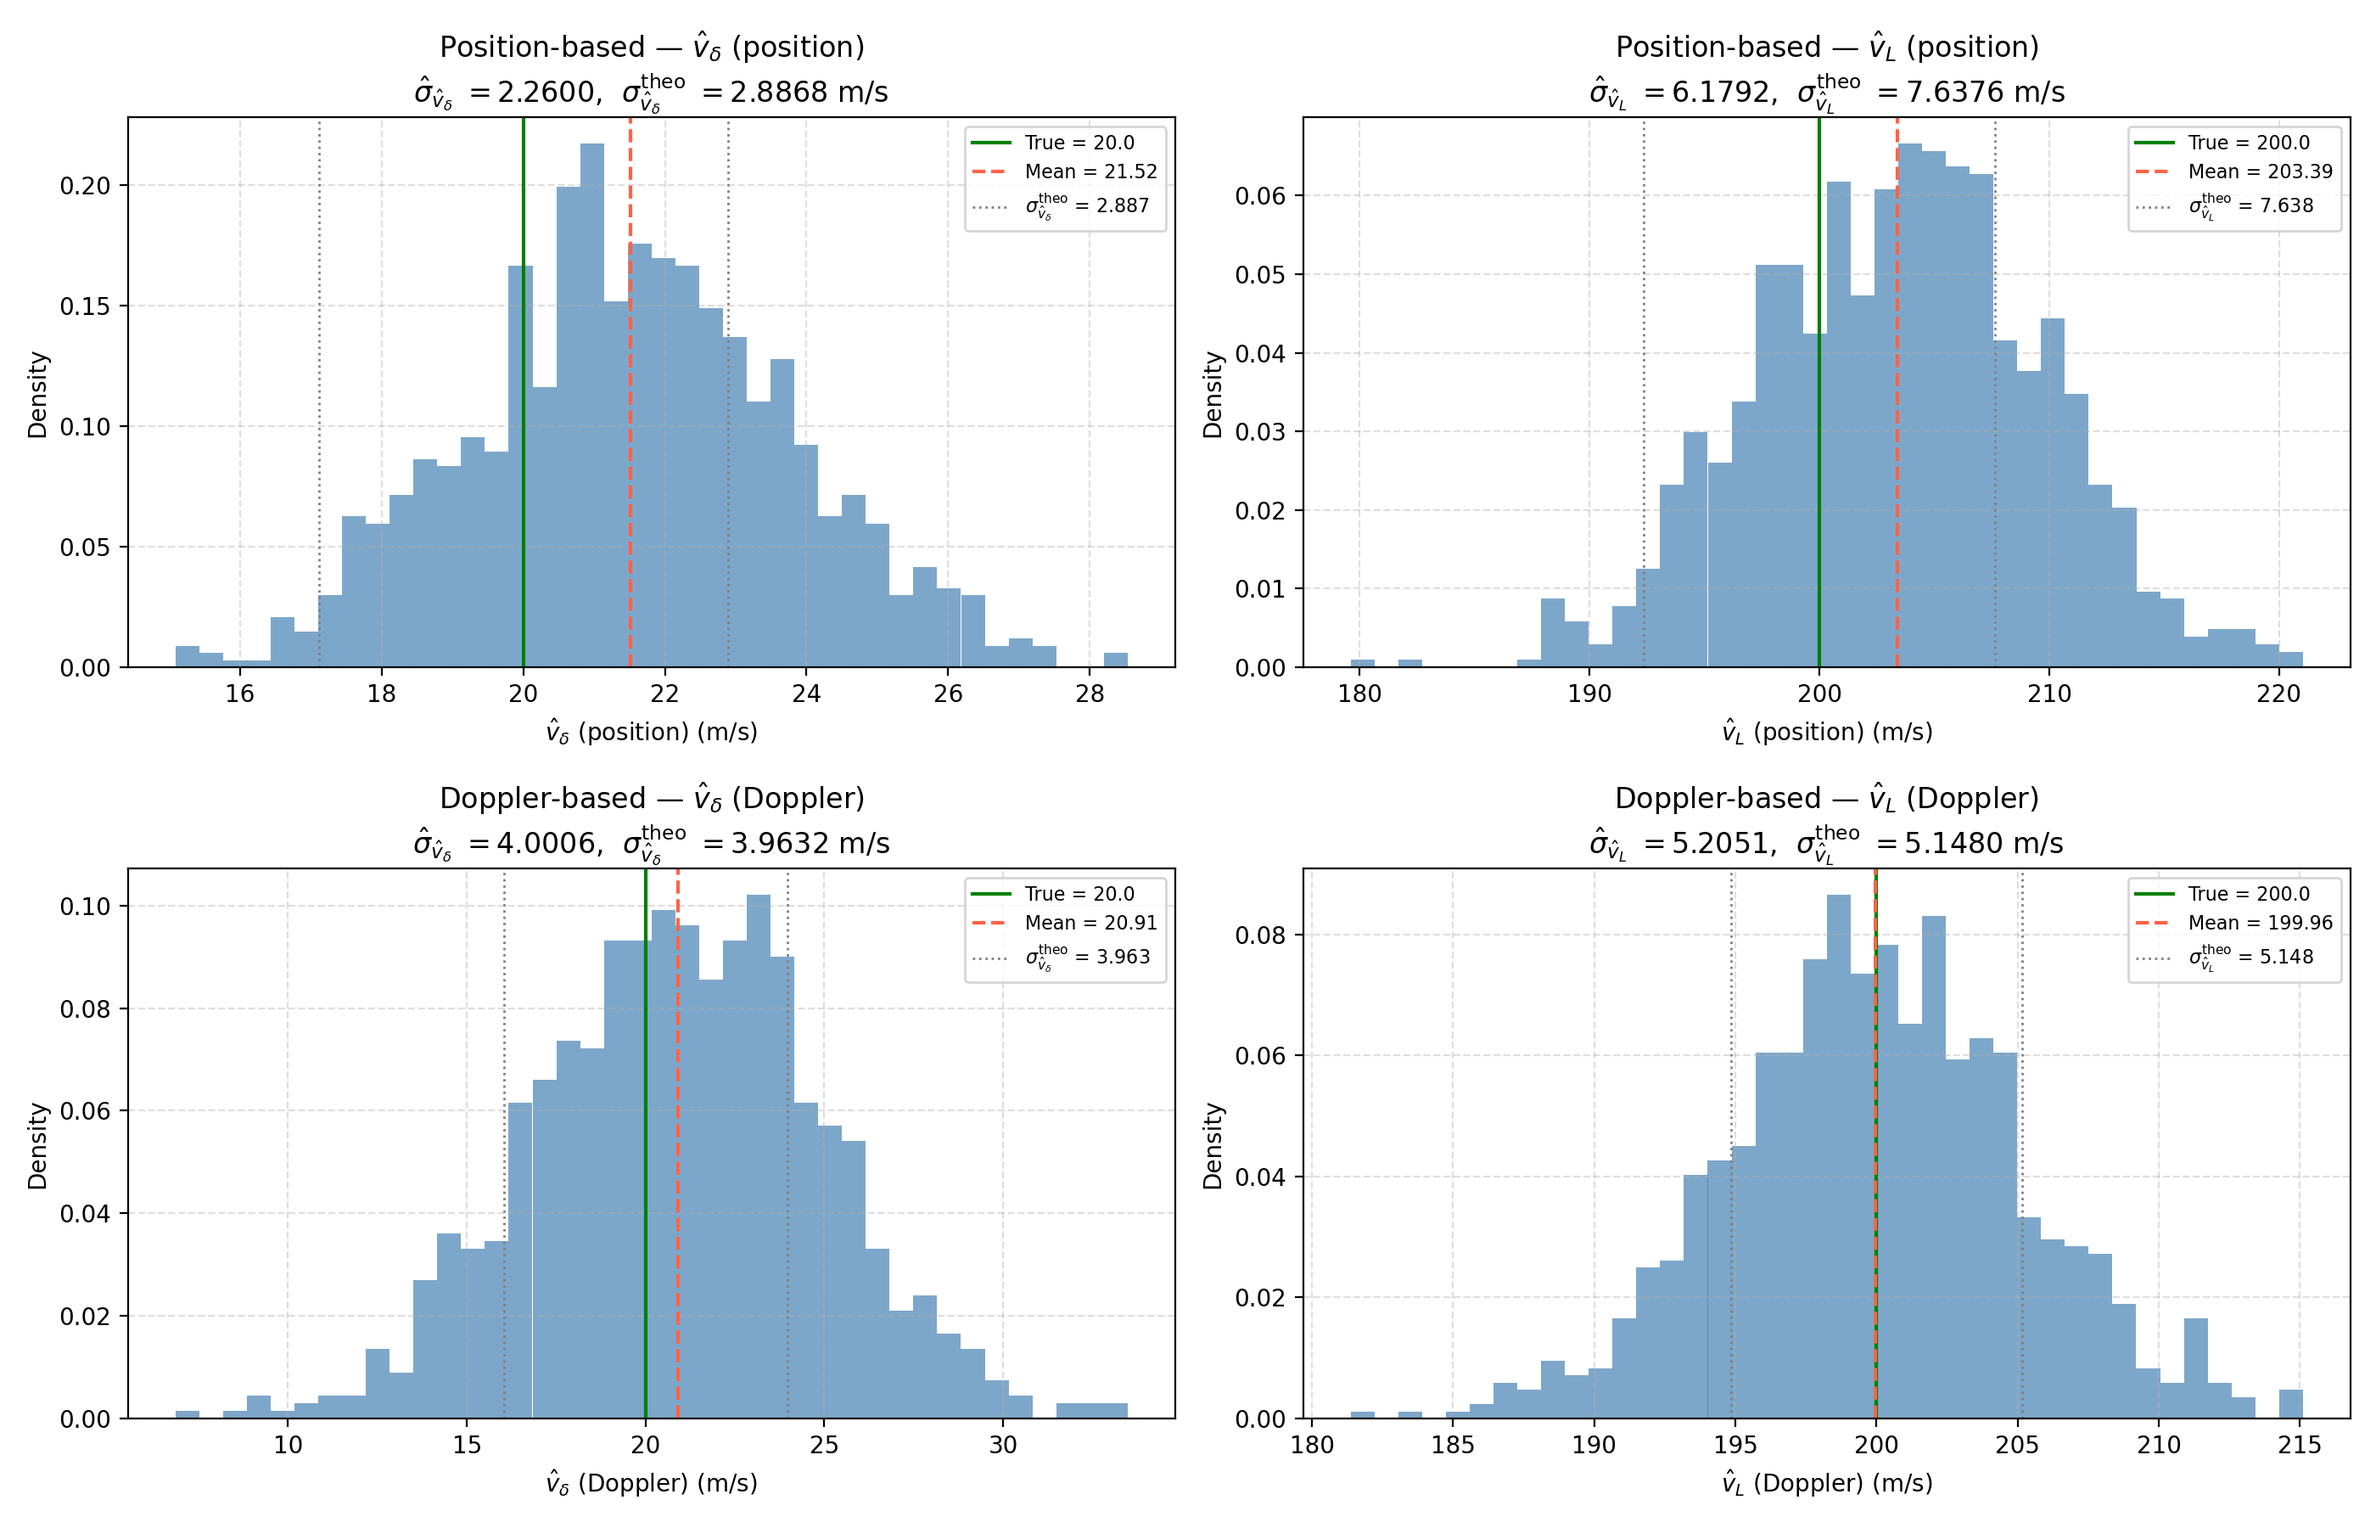
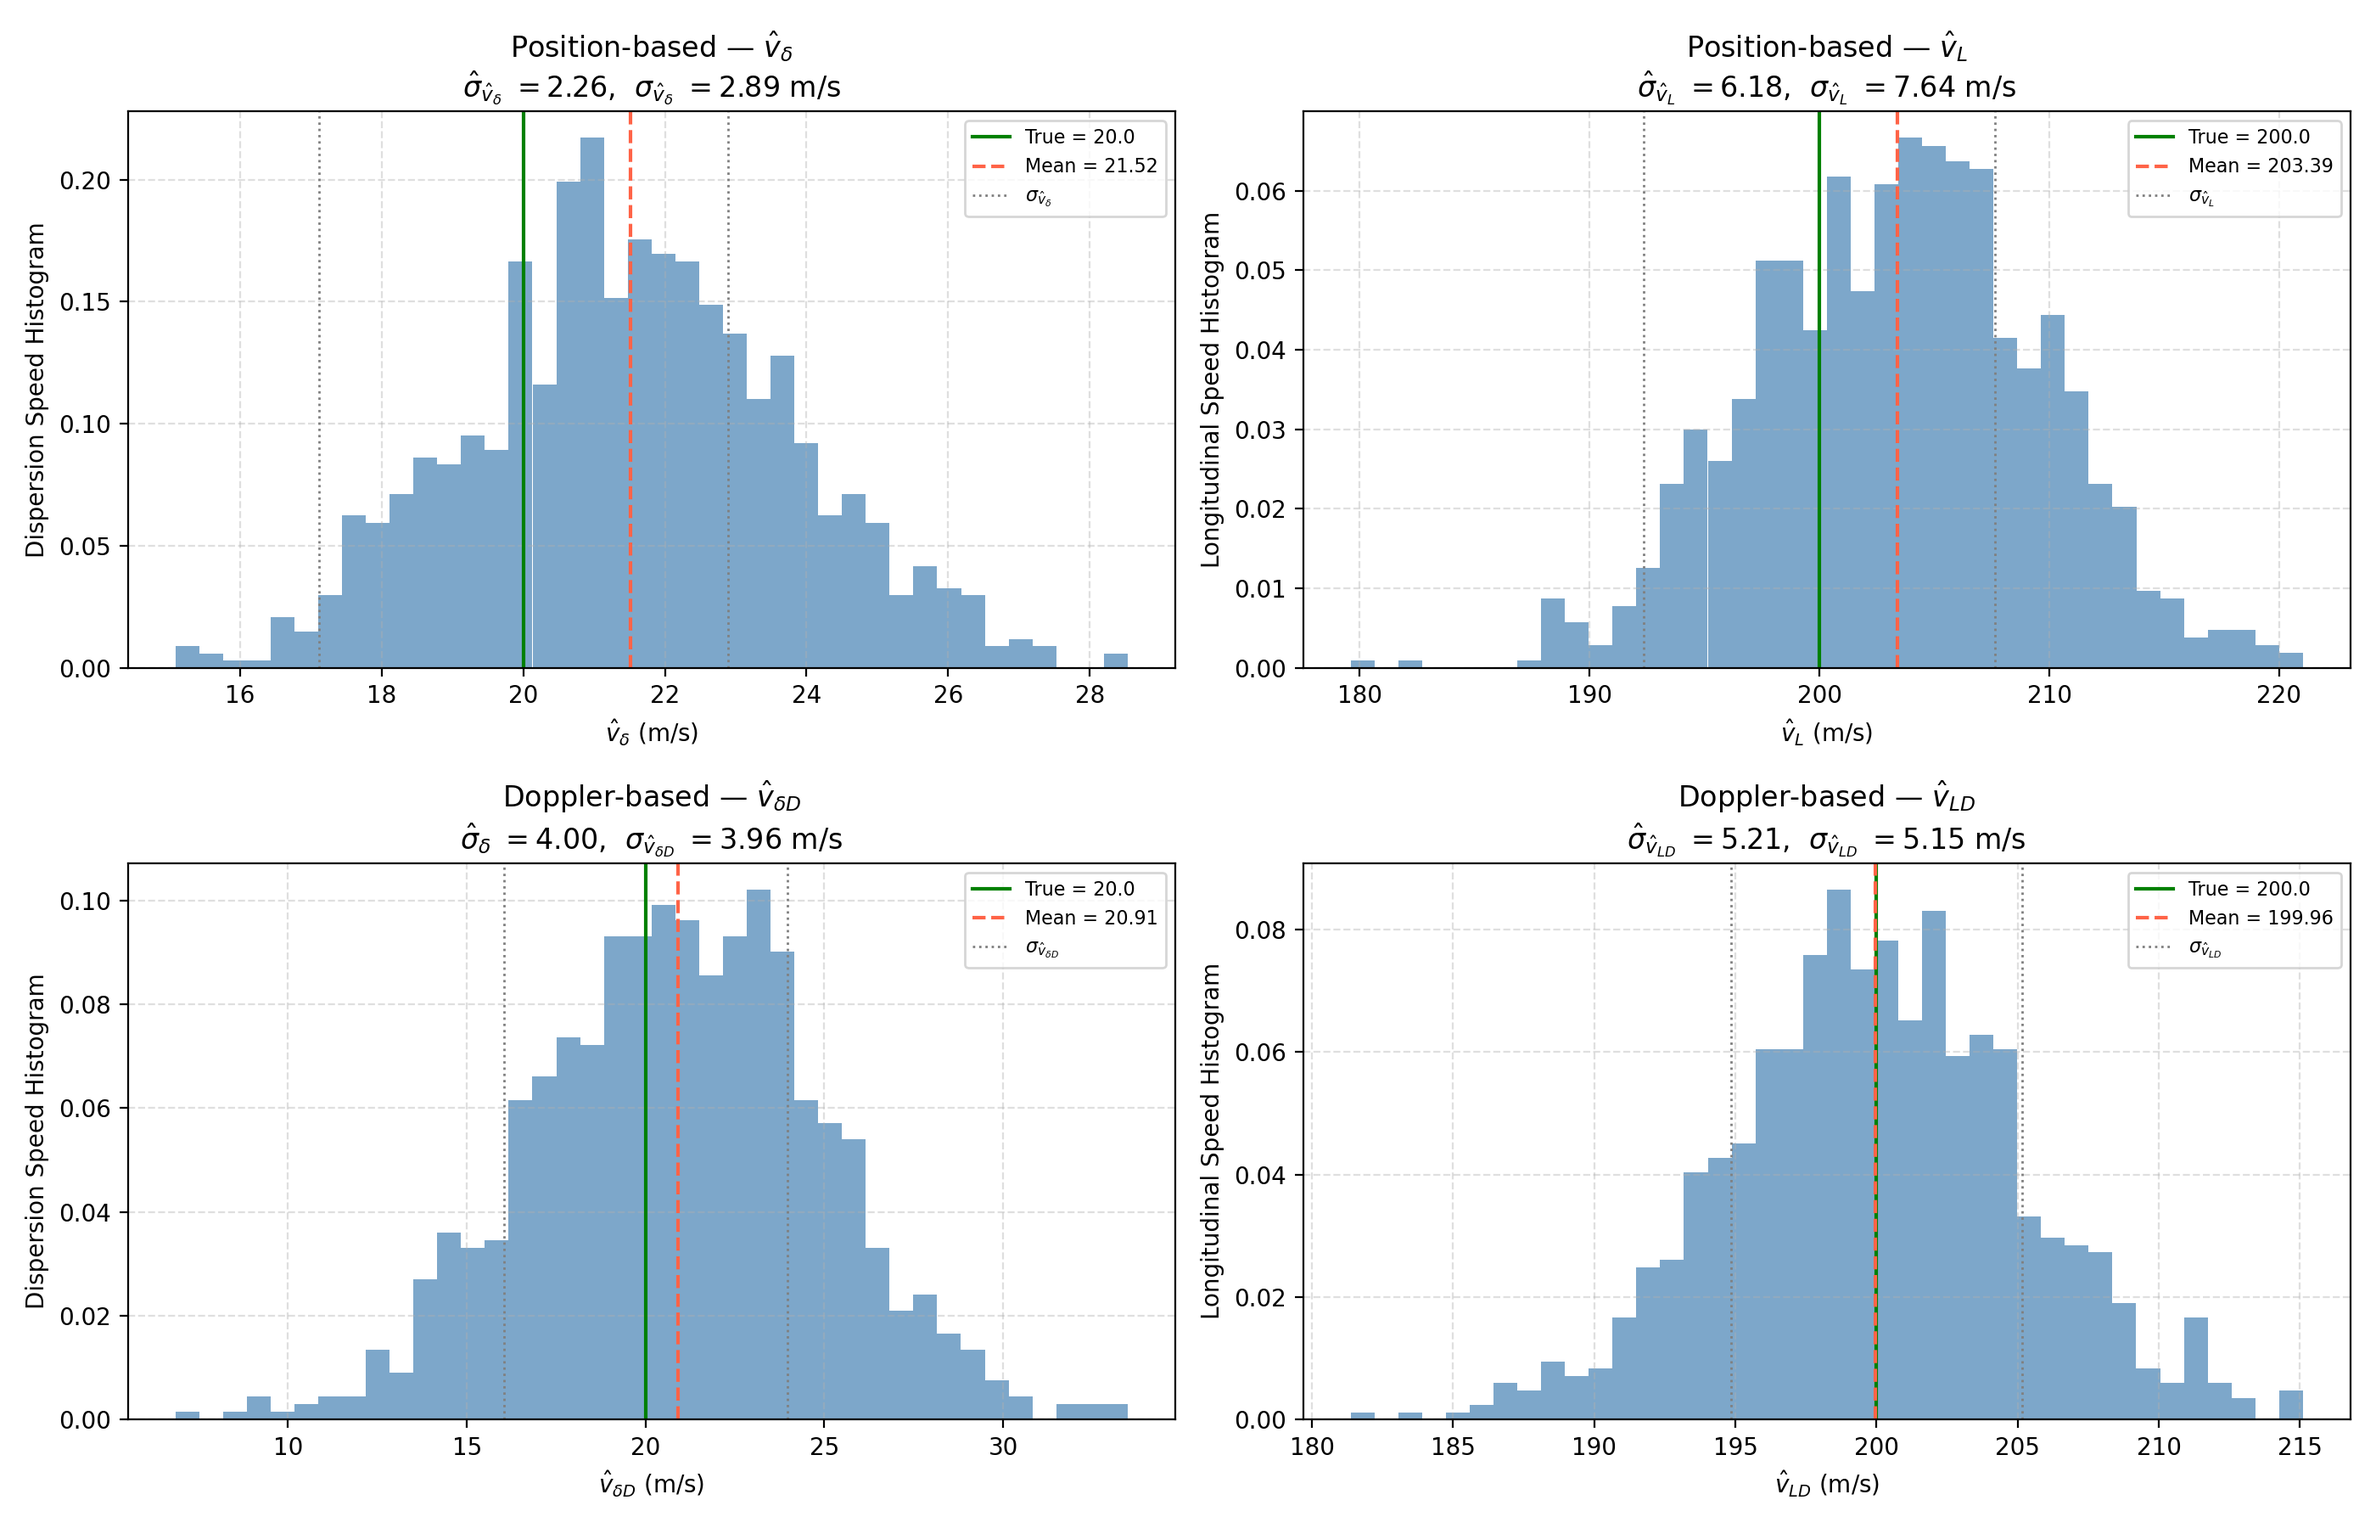
should be done

diff --git a/src/main.py b/src/main.py
@@ -231,17 +231,17 @@ def run_sim(p: Params) -> dict:
     z_Dc_after_noisy = vce * phi_cLOS + rng.normal(0.0, p.sigma_D)
 
     # Representative Cartesian noise level sigma_w
- #   r_mean = float(u_obj_true[:, 0].mean())
- #   az_mean = float(u_obj_true[:, 1].mean())
- #   el_mean = float(u_obj_true[:, 2].mean())
- #   sigma_w = float(
- #       np.sqrt(
- #           cartesian_noise_MSE(
- #               r_mean, az_mean, el_mean, p.sigma_r, p.sigma_az, p.sigma_el
- #           )
- #       )
- #   )
-    sigma_w = 10 #m
+    #   r_mean = float(u_obj_true[:, 0].mean())
+    #   az_mean = float(u_obj_true[:, 1].mean())
+    #   el_mean = float(u_obj_true[:, 2].mean())
+    #   sigma_w = float(
+    #       np.sqrt(
+    #           cartesian_noise_MSE(
+    #               r_mean, az_mean, el_mean, p.sigma_r, p.sigma_az, p.sigma_el
+    #           )
+    #       )
+    #   )
+    sigma_w = 10  # m
 
     return {
         "params": asdict(p),
@@ -436,44 +436,58 @@ def plot_mc(outdir: Path, p: Params, mc: dict, sigmas: dict) -> None:
             mc["v_hat_deltas"],
             p.v_delta,
             sigmas["sigma_vdelta_pos"],
-            "$\\hat{v}_\\delta$ (position)",
+            "$\\hat{v}_\\delta$",
             "Position-based",
             r"$\hat{\sigma}_{\hat{v}_\delta}$",
-            r"$\sigma_{\hat{v}_\delta}^{\mathrm{theo}}$",
+            r"$\sigma_{\hat{v}_\delta}$",
+            "Dispersion Speed Histogram",
         ),
         (
             axes[0, 1],
             mc["v_hat_Ls"],
             p.v_L,
             sigmas["sigma_vL_pos"],
-            "$\\hat{v}_L$ (position)",
+            "$\\hat{v}_L$",
             "Position-based",
             r"$\hat{\sigma}_{\hat{v}_L}$",
-            r"$\sigma_{\hat{v}_L}^{\mathrm{theo}}$",
+            r"$\sigma_{\hat{v}_L}$",
+            "Longitudinal Speed Histogram",
         ),
         (
             axes[1, 0],
             mc["v_hat_deltas_D"],
             p.v_delta,
             sigmas["sigma_vdelta_doppler"],
-            "$\\hat{v}_\\delta$ (Doppler)",
+            "$\\hat{v}_{\\delta D}$",
             "Doppler-based",
-            r"$\hat{\sigma}_{\hat{v}_\delta}$",
-            r"$\sigma_{\hat{v}_\delta}^{\mathrm{theo}}$",
+            r"$\hat{\sigma}_{\delta}$",
+            r"$\sigma_{\hat{v}_{\delta D}}$",
+            "Dispersion Speed Histogram",
         ),
         (
             axes[1, 1],
             mc["v_hat_Ls_D"],
             p.v_L,
             sigmas["sigma_vL_doppler"],
-            "$\\hat{v}_L$ (Doppler)",
+            "$\\hat{v}_{L D}$",
             "Doppler-based",
-            r"$\hat{\sigma}_{\hat{v}_L}$",
-            r"$\sigma_{\hat{v}_L}^{\mathrm{theo}}$",
+            r"$\hat{\sigma}_{\hat{v}_{LD}}$",
+            r"$\sigma_{\hat{v}_{LD}}$",
+            "Longitudinal Speed Histogram",
         ),
     ]
 
-    for ax, vals, true_val, theo_sigma, label, subtitle, emp_sym, theo_sym in configs:
+    for (
+        ax,
+        vals,
+        true_val,
+        theo_sigma,
+        label,
+        subtitle,
+        emp_sym,
+        theo_sym,
+        y_label,
+    ) in configs:
         ax.hist(vals, bins=40, color="steelblue", alpha=0.7, density=True)
         ax.axvline(
             true_val, color="green", lw=1.5, ls="-", label=f"True = {true_val:.1f}"
@@ -490,18 +504,18 @@ def plot_mc(outdir: Path, p: Params, mc: dict, sigmas: dict) -> None:
             color="gray",
             lw=1.0,
             ls=":",
-            label=theo_sym + f" = {theo_sigma:.3f}",
+            label=theo_sym,
         )
         ax.axvline(true_val - theo_sigma, color="gray", lw=1.0, ls=":")
 
         ax.set_xlabel(f"{label} (m/s)")
-        ax.set_ylabel("Density")
+        ax.set_ylabel(y_label)
         ax.set_title(
             f"{subtitle} — {label}\n"
             + emp_sym
-            + f" $= {vals.std():.4f}$,  "
+            + f" $= {vals.std():.2f}$,  "
             + theo_sym
-            + f" $= {theo_sigma:.4f}$ m/s"
+            + f" $= {theo_sigma:.2f}$ m/s"
         )
         ax.legend(fontsize=8)
         ax.grid(True, ls="--", alpha=0.4)
